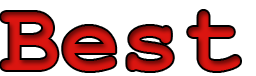
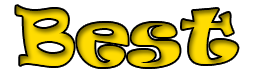
Changed game menu screen.

diff --git a/Games/Jim the Snake/Sources/MenuScreen.cpp b/Games/Jim the Snake/Sources/MenuScreen.cpp
@@ -34,7 +34,7 @@ void MenuScreen::Start(){
 	background = graphics->LoadImage("Menu/Background.png");
 	sun = graphics->LoadImage("Menu/Sun.jpg");
 	bestscore = graphics->LoadImage("Menu/BestScoreLabel.png", game->GetScaleFactor() * 1.2f);
-	snaky = graphics->LoadImage("Menu/SnakyLabel.png");
+	jimthesnake = graphics->LoadImage("Menu/JimTheSnakeLabel.png");
 	Image* playUp = graphics->LoadImage("Menu/PlayButtonUp.png");
 	Image* playDown = graphics->LoadImage("Menu/PlayButtonDown.png");
 	Image* soundUp = graphics->LoadImage("Menu/SoundUp.png", game->GetScaleFactor() * 1.2f);
@@ -52,7 +52,7 @@ void MenuScreen::Start(){
 	sun_pos.x = 400.f * scaleFactor / game->GetScaleFactor();
 	sun_pos.y = 580.f * scaleFactor / game->GetScaleFactor();
 	snaky_pos.x = 200.f * scaleFactor / game->GetScaleFactor();
-	snaky_pos.y = 100.f * scaleFactor / game->GetScaleFactor();
+	snaky_pos.y = 120.f * scaleFactor / game->GetScaleFactor();
 	background_pos.x = game->GetWidth() / 2.f;
 	background_pos.y = game->GetHeight() / 2.f;
 	Point playPos;
@@ -67,7 +67,7 @@ void MenuScreen::Start(){
 	//scaling
 	graphics->ScaleImage(background, scaleFactor);
 	graphics->ScaleImage(sun, scaleFactor);
-	graphics->ScaleImage(snaky, scaleFactor);
+	graphics->ScaleImage(jimthesnake, scaleFactor * 0.9f);
 	//buttons creation
 	play_btn = new Button(game, playPos, playUp, playDown);
 	play_btn->RegisterCallback(bind(&MenuScreen::OnPlayClick, this));
@@ -76,7 +76,7 @@ void MenuScreen::Start(){
 	music_btn = new ToggleButton(game, musicPos, musicUp, musicDown);
 	music_btn->RegisterCallback(bind(&MenuScreen::OnMusicClick, this));
 	//misc
-	score_texter = new Texter(game, "Numbers.png", 60.f, 76.f, 10, 1, 48);
+	score_texter = new Texter(game, "NumbersYellow.png", 65.f, 76.f, 10, 1, 48);
 	score = game->BestScore();
 	sound_btn->SetState(game->IsSoundEnabled());
 	menu_music = 0;
@@ -94,9 +94,10 @@ void MenuScreen::Update(float sec){
 	UpdateSun(sec);
 	graphics->DrawImage(background_pos, background);
 
-	graphics->DrawImage(snaky_pos, snaky);
-	graphics->DrawImage(Point(320.f, 520.f), bestscore);
-	score_texter->DrawText(Point(510.f, 490.f), to_string(score));
+	graphics->DrawImage(snaky_pos, jimthesnake);
+	float offset = bestscore->GetHeight() / 2;
+	graphics->DrawImage(Point(game->GetWidth() / 2 + 100.f, game->GetHeight() - offset - 20.f), bestscore);
+	score_texter->DrawText(Point(game->GetWidth() / 2 + 170.f + 100.f, game->GetHeight() - offset - 55.f), to_string(score));
 	/*
 	for(Rect area : dead_areas){
 		graphics->DrawRect(area, Color::Red);
@@ -198,7 +199,7 @@ MenuScreen::~MenuScreen(){
 	graphics->ReleaseImage(background);
 	graphics->ReleaseImage(sun);
 	graphics->ReleaseImage(bestscore);
-	graphics->ReleaseImage(snaky);
+	graphics->ReleaseImage(jimthesnake);
 	delete play_btn;
 	delete music_btn;
 	delete sound_btn;

diff --git a/Games/Jim the Snake/Sources/GameScreen.cpp b/Games/Jim the Snake/Sources/GameScreen.cpp
@@ -64,7 +64,7 @@ void GameScreen::Start(){
 	}else{
 		punch = NULL;
 	}
-	score_texter = new Texter(game, "Numbers.png", 60.f, 76.f, 10, 1, 48);
+	score_texter = new Texter(game, "NumbersRed.png", 60.f, 76.f, 10, 1, 48);
 	snake = NULL;
 
 	resume_btn = new Button(game, resumeup, resumedown);
@@ -116,8 +116,7 @@ void GameScreen::Update(float sec){
 			spider->Rotate(-180.f);
 		}
 	}
-	switch (state)
-	{
+	switch (state) {
 	case GameState::RUNNING:{
 			static bool down = false;
 			snake->EatableNear(spider);
@@ -310,8 +309,8 @@ void GameScreen::CalcInput(float sec){
 
 bool GameScreen::SpiderOnCollision(){
 	Point spiderAhead(spider->GetPosition().x, spider->GetPosition().y);
-	spiderAhead.y += -spider->GetSpeedV() * sin(spider->GetAngle() / 180.0 * PI) * 0.1;
-	spiderAhead.x += spider->GetSpeedV() * cos(spider->GetAngle() / 180.0 * PI) * 0.1;
+	spiderAhead.y += -spider->GetSpeedV() * sin(spider->GetAngle() / 180.0f * PI) * 0.1;
+	spiderAhead.x += spider->GetSpeedV() * cos(spider->GetAngle() / 180.0f * PI) * 0.1;
 	return snake->OnCollision(spiderAhead, spider->GetRadius());
 }
 

diff --git a/Sources/Platform/Windows/LauncherWIN.cpp b/Sources/Platform/Windows/LauncherWIN.cpp
@@ -19,6 +19,14 @@
 
 using namespace cross;
 
+bool DirectoryExists(LPCTSTR szPath)
+{
+  DWORD dwAttrib = GetFileAttributes(szPath);
+
+  return (dwAttrib != INVALID_FILE_ATTRIBUTES && 
+         (dwAttrib & FILE_ATTRIBUTE_DIRECTORY));
+}
+
 void IntSleep(int milis){
 	Sleep(milis);
 }
@@ -36,11 +44,21 @@ int LauncherWIN::GetTargetHeight(){
 }
 
 string LauncherWIN::AssetsPath(){
-	return "../../Assets/";
+	LPCTSTR szPath = "../../Assets/";
+	if(DirectoryExists(szPath)){
+		return szPath;
+	}else{
+		return "Assets/";
+	}
 }
 
 string LauncherWIN::DataPath(){
-	return "../../Data/";
+	LPCTSTR szPath = "../../Data/";
+	if(DirectoryExists(szPath)){
+		return szPath;
+	}else{
+		return "Data/";
+	}
 }
 
 void LauncherWIN::LogIt(string msg){

diff --git a/Games/Jim the Snake/Platforms/Android/jni/main.cpp b/Games/Jim the Snake/Platforms/Android/jni/main.cpp
@@ -18,16 +18,6 @@
 #include "Cross.h"
 #include "JimTheSnake.h"
 
-#define LOGI(...) ((void)__android_log_print(ANDROID_LOG_INFO, "Cross++", __VA_ARGS__))
-
-JimTheSnake* game = NULL;
-
-void android_main(android_app* application){
-	LOGI("android_main()");
-	LauncherAndroid* launcher = CrossInit(application);
-	if(game == NULL)
-		game = new JimTheSnake(launcher);
-	else
-		game->launcher = launcher;
-	CrossMain(game);
+Game* CrossMain(Launcher* launcher){
+	return new JimTheSnake(launcher);
 }

diff --git a/Sources/Utils/Animation.cpp b/Sources/Utils/Animation.cpp
@@ -51,7 +51,7 @@ bool Animation::IsRunning(){
 }
 
 Animation::~Animation(){
-	for(int i = 0; i < frames.size(); i++){
+	for(unsigned int i = 0; i < frames.size(); i++){
 		if(frames[i] != NULL){
 			for(int j = i+1; j < frames.size(); j++){
 				if(frames[i] == frames[j]){

diff --git a/Games/Jim the Snake/Sources/MenuScreen.h b/Games/Jim the Snake/Sources/MenuScreen.h
@@ -44,7 +44,7 @@ private:
 	Texter* score_texter;
 	int score;
 	Image* bestscore;
-	Image* snaky;
+	Image* jimthesnake;
 	Point snaky_pos;
 
 	Button* play_btn;
